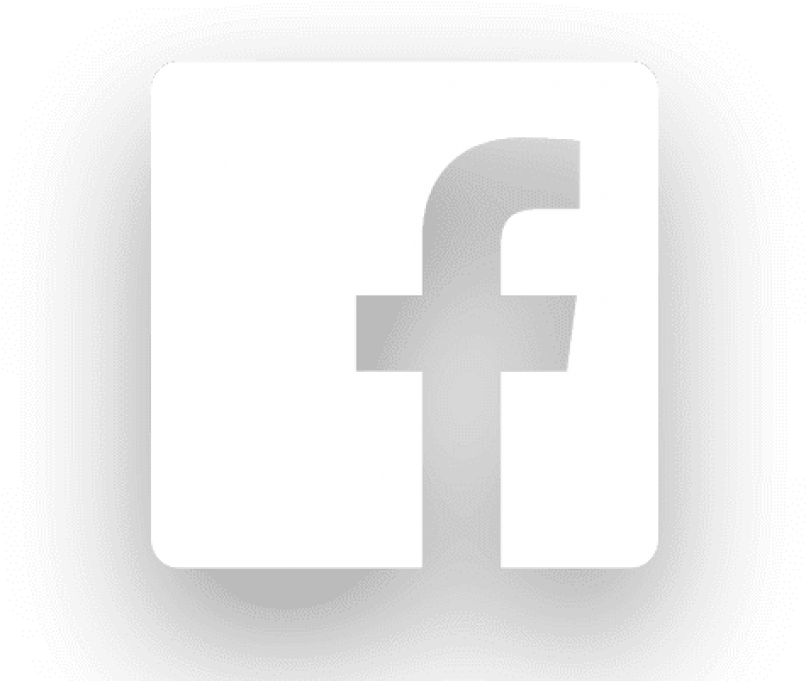
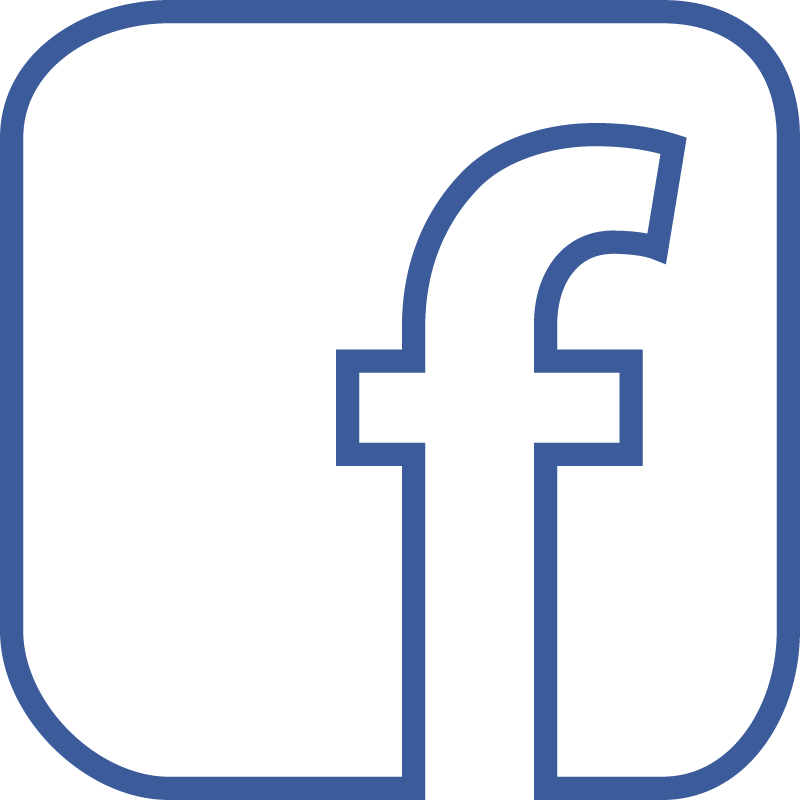
'links'

diff --git a/project/src/components/AboutComp.jsx b/project/src/components/AboutComp.jsx
@@ -6,13 +6,13 @@ const AboutComp = () => {
       <div className="text-3xl font-medium text-gray-500 inline-block">
         Frontend Developer
       </div>
-      <div className="text-7xl font-extrabold text-indigo-950 mt-3 mb-16">
+      <div className="text-7xl font-extrabold text-indigo-950 mt-3 mb-20">
         Riten Gurung
       </div>
       <div>
       <div className="text-3xl text-indigo-950 font-bold">Description</div>
       <div className="mt-8 ">
-      <p className='text-sm font-medium text-gray-500 leading-7 text-left'>Hi there! 👋 I'm Riten Gurung, a passionate frontend developer based in Nepal. With a love for turning creative ideas into tangible, interactive experiences, I thrive on the challenges and rewards of web development. I believe in the power of combining creativity with precision. Crafting pixel-perfect, visually stunning user interfaces is not just a job for me - it's my passion. My goal is to create user interfaces that go beyond aesthetics – they should feel intuitive and enhance the overall user experience. I pay attention to user feedback and iterate to ensure the best possible interaction.</p>
+      <p className='text-sm font-medium text-gray-500 leading-7 text-left'>Hi there! 👋 I'm Riten Gurung, a passionate frontend developer based in Nepal. With a love for turning creative ideas into tangible, interactive experiences, I thrive on the challenges and rewards of web development. I believe in the power of combining creativity with precision. Crafting pixel-perfect, visually stunning user interfaces is not just a job for me - it's my passion. My goal is to create user interfaces that go beyond aesthetics – they should feel intuitive and enhance the overall user experience. I pay attention to user feedback and iterate to ensure the best possible interaction. I'm always open to new opportunities, collaborations, and connecting with like-minded individuals. Feel free to reach out on LinkedIn, explore my GitHub repositories, or drop me an email. Let's create something remarkable together!</p>
       </div>
       
       </div>

diff --git a/project/src/App.jsx b/project/src/App.jsx
@@ -11,6 +11,12 @@ import icon2 from './components/images/icon_2.png.webp'
 import icon3 from './components/images/icon_3.png.webp'
 import icon4 from './components/images/icon_4.png.webp'
 import icon5 from './components/images/icon_5.png.webp'
+import fb from './components/images/fb.png'
+import git from './components/images/github.png'
+import insta from './components/images/insta.png'
+import linkdin from './components/images/linkdin.png'
+
+
 
 
 function App() {
@@ -93,6 +99,21 @@ function App() {
                   <Link className="text-gray-500 hover:text-white duration-200">
                     www.riten.dev.com  
                   </Link>
+                </li>
+
+                <li className="flex items-start justify-start gap-x-5 mt-10">
+                  <a href={'https://www.facebook.com/riten.gurung.3'} target="_blank" rel="noopener norefferer" className="ml-20 w-5 rounded hover:bg-white duration-200">
+                  <img src={fb}></img>
+                  </a>
+                  <a href="https://www.instagram.com/_ritengrg/"  target="_blank" rel="noopener norefferer" className="w-5 rounded-xl hover:bg-white duration-200">
+                  <img src={insta}></img>
+                  </a>
+                  <a href="https://github.com/Riten1" target="_blank" rel="noopener norefferer"  className="w-5 rounded-xl hover:bg-white duration-200">
+                  <img src={git}></img>
+                  </a>
+                  <a href="https://www.linkedin.com/in/riten-gurung-29708225a/"  target="_blank" rel="noopener norefferer"  className="w-5 rounded-xl hover:bg-white duration-200">
+                  <img src={linkdin}></img>
+                  </a>
                 </li>
                 
               </ul>
